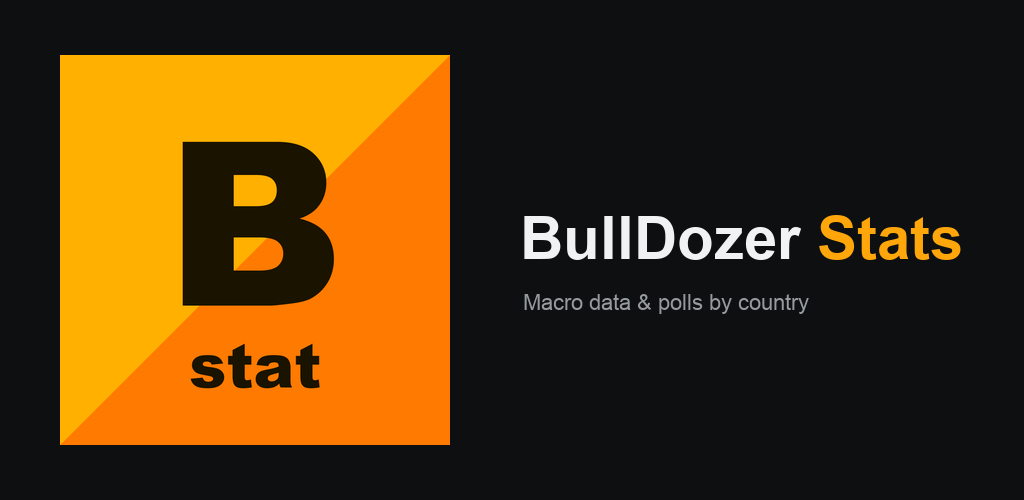
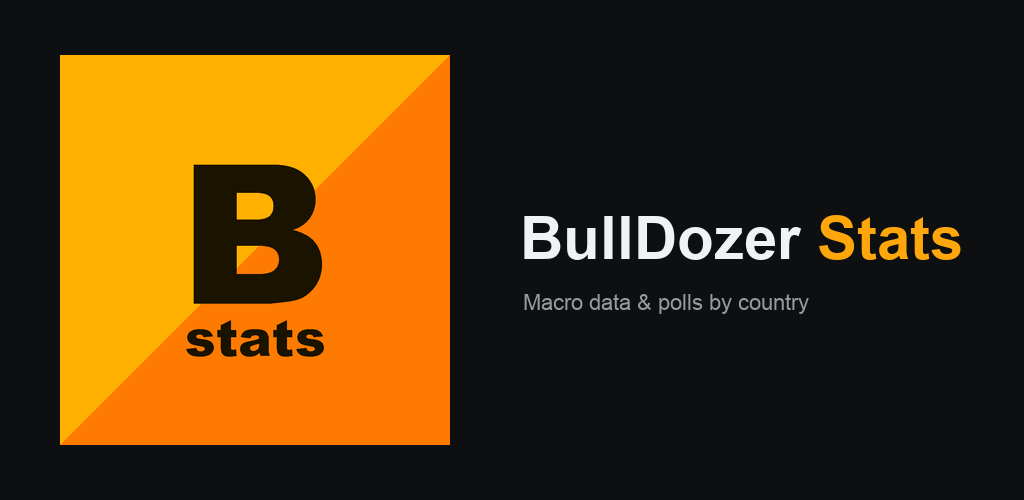
Store artwork carries the same mark as the launcher
The 512 icon and the feature graphic still showed the singular stat while the
launcher had moved to stats, so the Play listing would have contradicted the
installed app. The banner keeps its layout; only the square is replaced.
Includes the generator so the next redraw starts from the script, not scratch.

Changed region(s): [[0.1562, 0.27, 0.3438, 0.78]]

diff --git a/scripts/make_icon_stats.py b/scripts/make_icon_stats.py
@@ -1,0 +1,120 @@
+#!/usr/bin/env python3
+"""Regenerate the launcher icon as the B mark over the word "stats".
+
+The product is called BullDozer Stats on the App Store, so the mark carries the
+word too and the surfaces agree with each other.
+
+Nothing here is redrawn. The B and the letters are lifted as alpha masks from
+the shipped artwork in assets/icon/_archive-with-stat/, which spells "stat" —
+the closing s is the same glyph as the opening one, copied and set at the
+spacing already used between the other letters, so the wordmark stays in its
+original typeface down to the curve.
+
+    python3 scripts/make_icon_stats.py && dart run flutter_launcher_icons
+
+The B-only variant lives in make_icon.py; both read the same source, so either
+can be regenerated at any time.
+"""
+from pathlib import Path
+
+from PIL import Image, ImageDraw
+
+ICONS = Path(__file__).resolve().parent.parent / 'assets' / 'icon'
+SRC = ICONS / '_archive-with-stat'
+N = 1024
+
+# The wordmark sits below this line; everything above it is the letter B.
+WORD_TOP = 690
+# The shipped diagonal runs corner to corner: orange where x + y exceeds this.
+DIAGONAL = 1024
+
+
+def ink_mask(img: Image.Image) -> Image.Image:
+    """Everything genuinely dark and opaque in the source, as an alpha mask."""
+    r, _, _, a = img.split()
+    dark = r.point(lambda v: 255 if v < 120 else 0)
+    return Image.composite(dark, Image.new('L', img.size, 0),
+                           a.point(lambda v: 255 if v > 128 else 0))
+
+
+def letters(mask: Image.Image):
+    """The wordmark split into its glyphs, left to right, with their spacing.
+
+    Letters are separated by finding the columns with no ink at all — the face
+    is spaced widely enough that no two glyphs share a column.
+    """
+    word = mask.crop((0, WORD_TOP, N, N))
+    cols = [any(word.getpixel((x, y)) for y in range(word.height)) for x in range(N)]
+    runs, start = [], None
+    for x, inked in enumerate(cols + [False]):
+        if inked and start is None:
+            start = x
+        elif not inked and start is not None:
+            runs.append((start, x - 1))
+            start = None
+    if len(runs) < 2:
+        raise SystemExit(f'expected several letters in the wordmark, found {len(runs)}')
+    gap = min(runs[i + 1][0] - runs[i][1] - 1 for i in range(len(runs) - 1))
+    rows = [y for y in range(word.height)
+            if any(word.getpixel((x, y)) for x in range(N))]
+    top, bottom = min(rows), max(rows)
+    glyphs = [word.crop((a, top, b + 1, bottom + 1)) for a, b in runs]
+    return glyphs, gap, WORD_TOP + top
+
+
+def compose_word(glyphs, gap: int) -> Image.Image:
+    """s t a t + a second s, at the spacing the original already uses."""
+    order = glyphs + [glyphs[0]]
+    width = sum(g.width for g in order) + gap * (len(order) - 1)
+    strip = Image.new('L', (width, max(g.height for g in order)), 0)
+    x = 0
+    for g in order:
+        strip.paste(g, (x, 0))
+        x += g.width + gap
+    return strip
+
+
+def background() -> Image.Image:
+    """The two-tone field, drawn oversized and downsampled so the diagonal
+    does not staircase — it is the one straight line in the whole mark."""
+    s = N * 4
+    bg = Image.new('RGB', (s, s), AMBER)
+    d = ImageDraw.Draw(bg)
+    c = DIAGONAL * 4
+    d.polygon([(c, 0), (s, 0), (s, s), (0, s), (0, c)], fill=ORANGE)
+    return bg.resize((N, N), Image.LANCZOS)
+
+
+src_fg = Image.open(SRC / 'icon_foreground.png').convert('RGBA')
+src_master = Image.open(SRC / 'icon.png').convert('RGB')
+AMBER = src_master.getpixel((40, 40))
+ORANGE = src_master.getpixel((N - 40, 40))
+INK = src_master.getpixel((400, 450))
+
+
+def main():
+    mask = ink_mask(src_fg)
+    b_mark = mask.crop((0, 0, N, WORD_TOP))
+    glyphs, gap, word_top = letters(mask)
+    word = compose_word(glyphs, gap)
+    word_x = (N - word.width) // 2          # re-centred: it grew by one letter
+
+    def stamp(canvas, ink_rgba):
+        canvas.paste(Image.new(canvas.mode, (N, WORD_TOP), ink_rgba), (0, 0), b_mark)
+        canvas.paste(Image.new(canvas.mode, word.size, ink_rgba), (word_x, word_top), word)
+        return canvas
+
+    stamp(background(), INK).save(ICONS / 'icon.png')
+
+    # Android adaptive: flat plate behind, letters alone on transparent, because
+    # the launcher crops the pair to its own shape and would cut the diagonal
+    # at an arbitrary angle.
+    Image.new('RGB', (N, N), AMBER).save(ICONS / 'icon_background.png')
+    stamp(Image.new('RGBA', (N, N), (0, 0, 0, 0)), INK + (255,)).save(ICONS / 'icon_foreground.png')
+
+    print(f'letters {len(glyphs)} + 1 repeat, gap {gap}px, word {word.width}px wide')
+    print('wrote icon.png, icon_background.png, icon_foreground.png')
+
+
+if __name__ == '__main__':
+    main()
